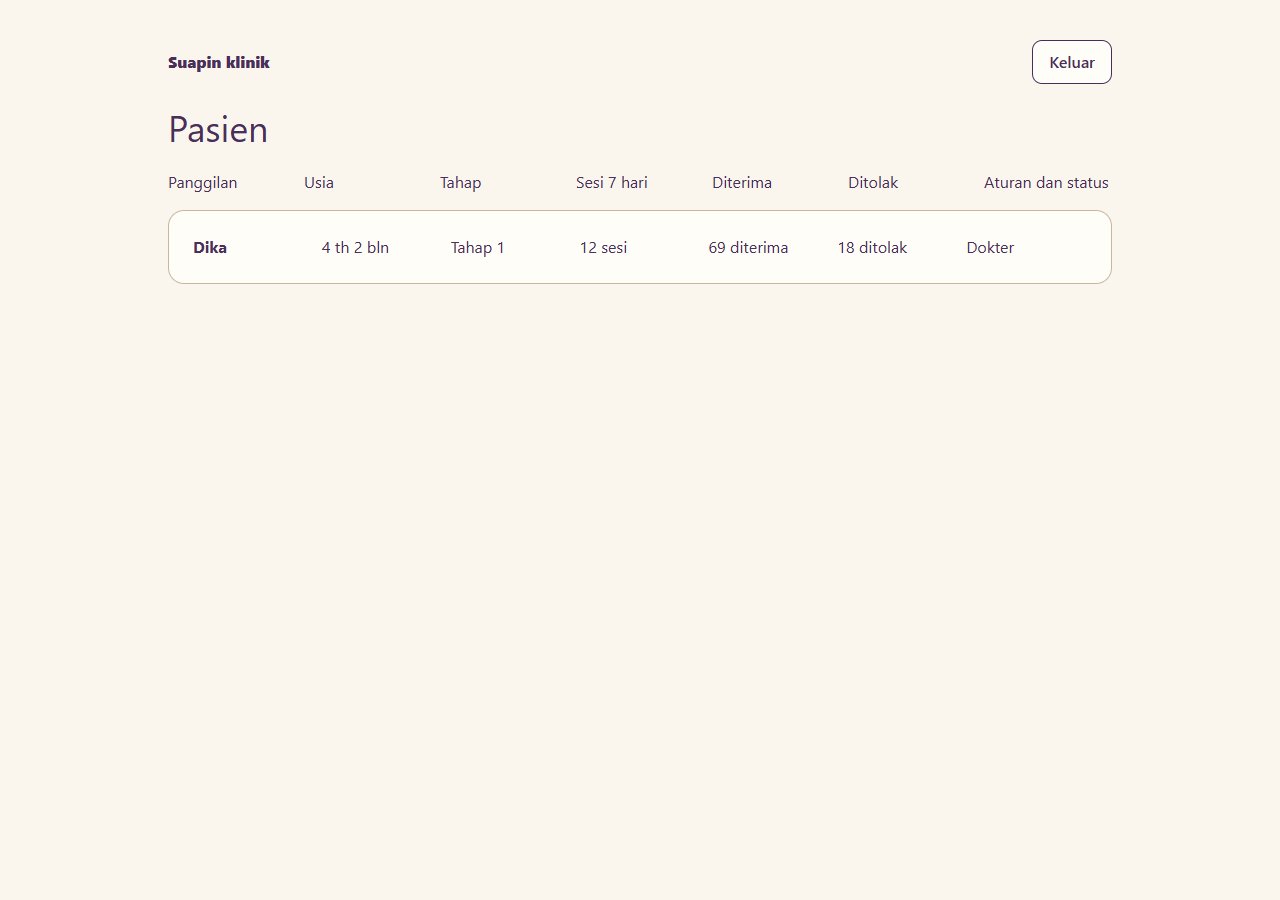
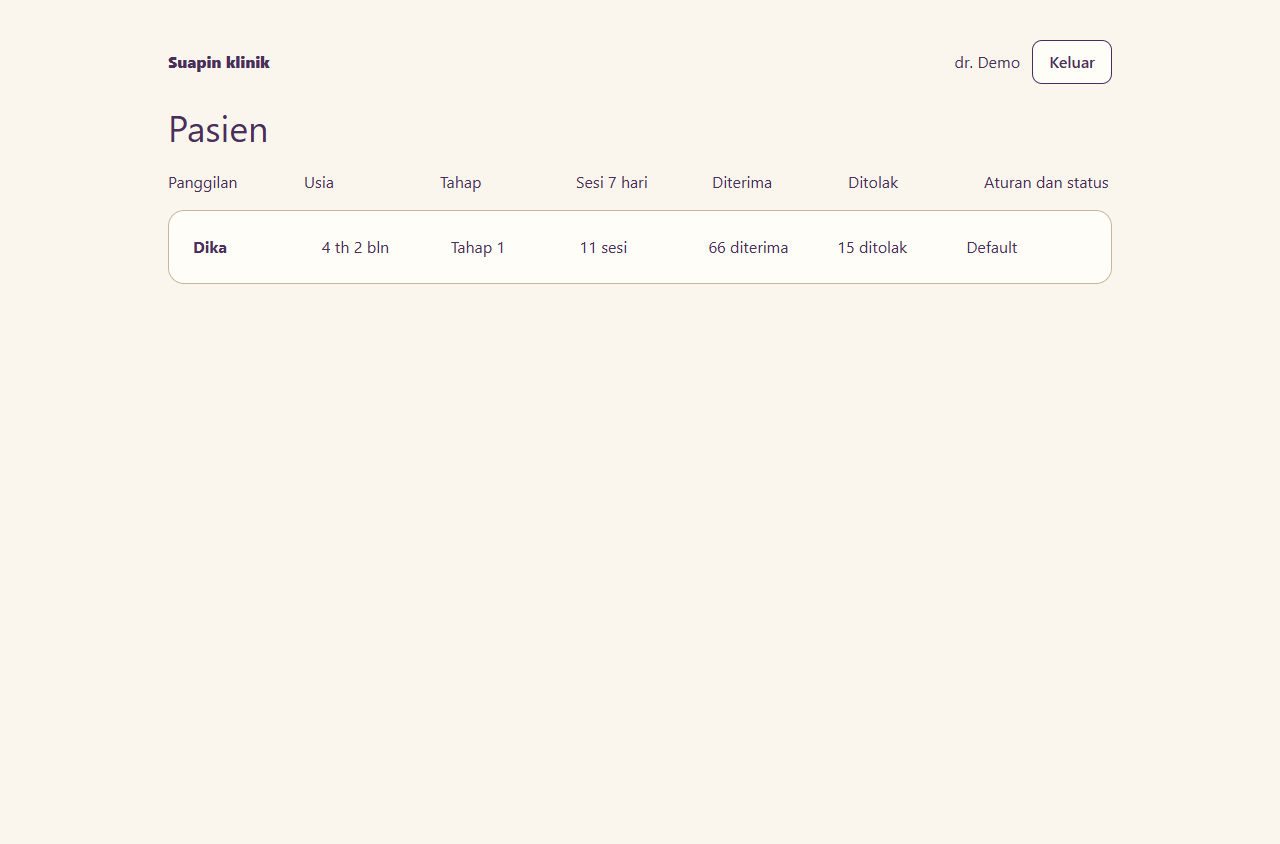
C: tampilkan nama dokter dan siapkan verifikasi API

diff --git a/uji/server/alur.test.ts b/uji/server/alur.test.ts
@@ -56,7 +56,9 @@ it("bagikan, klaim, baca resep dari cache, konfirmasi, lalu keluarga mendapat at
   expect(anonim.child).toEqual({ panggilan: "Dika", usia_bulan: 50 })
   expect(anonim).not.toHaveProperty("pasien_saya")
   expect((await dokter("/api/clinic/claim/" + share.token, "POST")).status).toBe(200)
-  expect(await (await dokter("/api/clinic/patients")).json()).toMatchObject({ pasien: [{ id: DIKA }] })
+  expect(await (await dokter("/api/clinic/patients")).json()).toMatchObject({
+    dokter_nama: "dr. Demo", pasien: [{ id: DIKA }],
+  })
   const teks = contohResep[0]!.teks
   const mock: Llm = async (_nama, skema) => skema.parse({ ...contohResep[0]!.hasil, max_minutes: 60 })
   const invalid = await (await uji.sebagai(uji.dokter, mock)("/api/rules/parse", "POST", { teks: teks + " Uji." })).json()
@@ -64,6 +66,12 @@ it("bagikan, klaim, baca resep dari cache, konfirmasi, lalu keluarga mendapat at
   expect(invalid.kolom_bermasalah[0].kolom).toBe("max_minutes")
   const parsed = await (await dokter("/api/rules/parse", "POST", { teks })).json()
   expect(parsed).toMatchObject({ sumber: "cache", aturan: { max_minutes: 20 } })
+  const llmValid: Llm = async (_nama, skema, _instruksi, input) => {
+    expect(input).toBe("Untuk anak: " + teks)
+    return skema.parse(contohResep[0]!.hasil)
+  }
+  const resepValid = await uji.sebagai(uji.dokter, llmValid)("/api/rules/parse", "POST", { teks: "Untuk Dika: " + teks })
+  expect(await resepValid.json()).toMatchObject({ sumber: "ai", aturan: parsed.aturan, kolom_bermasalah: [] })
   expect((await dokter("/api/rules/confirm", "POST", { child_id: DIKA, aturan: parsed.aturan, source_text: teks })).status).toBe(200)
   expect(await (await keluarga("/api/children/" + DIKA + "/rules")).json()).toMatchObject({
     source: "dokter", aturan: { max_minutes: 20 },
@@ -71,7 +79,9 @@ it("bagikan, klaim, baca resep dari cache, konfirmasi, lalu keluarga mendapat at
   expect(await (await keluarga("/api/saya")).json()).toMatchObject({ child: { plan: "klinik" } })
   const detail = await dokter("/api/clinic/patients/" + DIKA)
   expect(detail.status).toBe(200)
-  expect(await detail.json()).toMatchObject({ riwayat_aturan: [{ source: "dokter" }, { source: "default" }] })
+  expect(await detail.json()).toMatchObject({
+    dokter_nama: "dr. Demo", riwayat_aturan: [{ source: "dokter" }, { source: "default" }],
+  })
   expect(await (await dokter("/api/summaries/" + DIKA, "POST")).json()).toMatchObject({ sumber: "template" })
 })
 

diff --git a/src/halaman/klinik/pasien.tsx b/src/halaman/klinik/pasien.tsx
@@ -4,6 +4,7 @@ import { FormResep } from "../../komponen/klinik/form-resep"
 import { TabelSesi } from "../../komponen/klinik/tabel-sesi"
 import { GalatApi, panggil, usePanggil } from "../../lib/panggil"
 import { pesan, usia } from "./format"
+import { TataLetakKlinik } from "./tata-letak"
 
 export function Pasien() {
   const { id = "" } = useParams()
@@ -16,8 +17,10 @@ function DetailPasien({ id }: { id: string }) {
   const [galatAksi, setGalatAksi] = useState("")
   const [sukses, setSukses] = useState("")
   if (galat instanceof GalatApi && galat.status === 401) return <Navigate to="/klinik/masuk" replace />
-  if (!data) return memuat ? <p role="status">Memuat pasien…</p> :
-    <p role="alert">{galat?.message} <button type="button" onClick={ulang}>Coba lagi</button></p>
+  if (!data) return <TataLetakKlinik>
+    {memuat ? <p role="status">Memuat pasien…</p> :
+      <p role="alert">{galat?.message} <button type="button" onClick={ulang}>Coba lagi</button></p>}
+  </TataLetakKlinik>
 
   const aktif = data.aturan_aktif.aturan
   async function jalankan(jenis: NonNullable<typeof aksi>) {
@@ -37,7 +40,7 @@ function DetailPasien({ id }: { id: string }) {
     } catch (error) { setGalatAksi(pesan(error)) }
     finally { setAksi(null) }
   }
-  return <>
+  return <TataLetakKlinik dokter={data.dokter_nama}>
     <Link to="/klinik/pasien">Kembali ke pasien</Link>
     <div className="suapin-baris">
       <div><h1>{data.child.panggilan}</h1><p>{usia(data.child.usia_bulan)} · Tahap {data.child.stage}</p></div>
@@ -68,5 +71,5 @@ function DetailPasien({ id }: { id: string }) {
       </details>)}
     </section>
     <p><small>Yang diukur adalah perilaku menerima suapan. Porsi berasal dari catatan pengasuh.</small></p>
-  </>
+  </TataLetakKlinik>
 }

diff --git a/server/rute/klinik.ts b/server/rute/klinik.ts
@@ -52,7 +52,8 @@ export function ruteKlinik(daftar: Daftar, db: Db, env: Env) {
     return { child_id: anak.id }
   })
   daftar("pasienDaftar", async (c) => {
-    const clinicId = c.var.dokter!.clinic_id
+    const dokter = c.var.dokter!
+    const clinicId = dokter.clinic_id
     const [pasien, statistik] = await Promise.all([
       db.select().from(children).where(eq(children.clinic_id, clinicId)).orderBy(children.panggilan).all(),
       db.select({ id: sessions.child_id, n: sql<number>`count(*)`.mapWith(Number),
@@ -63,7 +64,7 @@ export function ruteKlinik(daftar: Daftar, db: Db, env: Env) {
         .groupBy(sessions.child_id).all(),
     ])
     const perAnak = new Map(statistik.map((row) => [row.id, row]))
-    return { pasien: await Promise.all(pasien.map(async (anak) => {
+    return { dokter_nama: dokter.nama, pasien: await Promise.all(pasien.map(async (anak) => {
       const [aktif, terakhir] = await Promise.all([
         bacaAturan(db, anak.id), sesiUntukTahap(db, anak.id, anak.stage),
       ])
@@ -89,7 +90,7 @@ export function ruteKlinik(daftar: Daftar, db: Db, env: Env) {
           eq(bites.hasil, "ngemut"), eq(bites.dikoreksi, true))).get(),
     ])
     const hasil = cekNaikTahap(terakhir, aturan_aktif.aturan)
-    return { child: { ...anak, usia_bulan: usiaBulan(anak.tanggal_lahir) }, aturan_aktif, riwayat_aturan,
+    return { dokter_nama: c.var.dokter!.nama, child: { ...anak, usia_bulan: usiaBulan(anak.tanggal_lahir) }, aturan_aktif, riwayat_aturan,
       sesi: sesi.map(tampilSesi), paparan, ngemut_dikonfirmasi: ngemut?.n ?? 0,
       siap_naik_tahap: hasil.siapNaik, saran_turun_tahap: hasil.saranTurun,
       ringkasan_dokter: ringkasan?.dokter ?? null }

diff --git a/uji/server/asap.ts b/uji/server/asap.ts
@@ -1,0 +1,33 @@
+import { API } from "../../bersama/kontrak/api"
+
+async function ujiGet() {
+  const tujuan = process.argv[2]
+  if (!tujuan) throw new Error("Gunakan: npx tsx uji/server/asap.ts <URL>")
+  const asal = new URL(tujuan)
+  if (asal.protocol !== "http:" && asal.protocol !== "https:") {
+    throw new Error("URL harus memakai HTTP atau HTTPS")
+  }
+
+  for (const endpoint of Object.values(API)) {
+    if (endpoint.metode !== "GET") continue
+    const path = endpoint.path.replace(/:\w+/g, "asap")
+    const status = endpoint.akses === "publik" ? 200 : endpoint.akses === "token" ? 404 : 401
+    const mulai = performance.now()
+    const respons = await fetch(new URL(path, asal), {
+      redirect: "error", signal: AbortSignal.timeout(10_000),
+    })
+    const durasi = Math.round(performance.now() - mulai)
+    if (respons.status !== status) {
+      throw new Error(path + " memberi HTTP " + respons.status + ", diharapkan " + status)
+    }
+    if (endpoint === API.sehat && !API.sehat.res.parse(await respons.json()).db) {
+      throw new Error("Pemeriksaan database gagal")
+    }
+    console.log("GET", path, status, durasi + " ms")
+  }
+}
+
+void ujiGet().catch((error: unknown) => {
+  console.error(error instanceof Error ? error.message : String(error))
+  process.exitCode = 1
+})

diff --git a/src/halaman/klinik/tata-letak.tsx b/src/halaman/klinik/tata-letak.tsx
@@ -1,11 +1,10 @@
-import { useState } from "react"
-import { Link, Outlet, useNavigate } from "react-router"
+import { useState, type ReactNode } from "react"
+import { Link, useNavigate } from "react-router"
 import { panggil } from "../../lib/panggil"
 import { pesan } from "./format"
 import "./klinik.css"
 
-
-export function TataLetakKlinik() {
+export function TataLetakKlinik({ dokter, children }: { dokter?: string; children: ReactNode }) {
   const navigate = useNavigate()
   const [sibuk, setSibuk] = useState(false)
   const [galat, setGalat] = useState("")
@@ -20,9 +19,12 @@ export function TataLetakKlinik() {
   return <main className="suapin-klinik">
     <header className="suapin-baris">
       <Link to="/klinik/pasien" className="suapin-merek">Suapin klinik</Link>
-      <button type="button" disabled={sibuk} onClick={() => void keluar()}>Keluar</button>
+      <div className="suapin-aksi">
+        {dokter && <span>{dokter}</span>}
+        <button type="button" disabled={sibuk} onClick={() => void keluar()}>Keluar</button>
+      </div>
     </header>
     {galat && <p role="alert">{galat}</p>}
-    <Outlet />
+    {children}
   </main>
 }

diff --git a/src/halaman/klinik/daftar-pasien.tsx b/src/halaman/klinik/daftar-pasien.tsx
@@ -1,6 +1,7 @@
 import { Link, Navigate } from "react-router"
 import { GalatApi, usePanggil } from "../../lib/panggil"
 import { usia } from "./format"
+import { TataLetakKlinik } from "./tata-letak"
 
 export function DaftarPasien() {
   const { data, galat, memuat, ulang } = usePanggil("pasienDaftar")
@@ -8,7 +9,7 @@ export function DaftarPasien() {
   const pasien = [...(data?.pasien ?? [])].sort((a, b) =>
     Number(b.siap_naik_tahap || b.saran_turun_tahap) - Number(a.siap_naik_tahap || a.saran_turun_tahap) ||
     a.panggilan.localeCompare(b.panggilan, "id"))
-  return <>
+  return <TataLetakKlinik dokter={data?.dokter_nama}>
     <h1>Pasien</h1>
     {memuat && <p role="status">Memuat daftar pasien…</p>}
     {galat && <p role="alert">{galat.message} <button type="button" onClick={ulang}>Coba lagi</button></p>}
@@ -26,5 +27,5 @@ export function DaftarPasien() {
         </span>
       </Link></li>)}
     </ul>}
-  </>
+  </TataLetakKlinik>
 }

diff --git a/server/akses.ts b/server/akses.ts
@@ -9,7 +9,7 @@ import type { API } from "../bersama/kontrak/api"
 
 export type SesiEnv = { Variables: {
   childId?: string
-  dokter?: { id: string; clinic_id: string }
+  dokter?: { id: string; clinic_id: string; nama: string }
 } }
 
 type C = Context<SesiEnv>
@@ -28,7 +28,7 @@ export function hapusCookie(c: C, env: Env, peran: Peran) {
 export async function bacaDokter(c: C, db: Db, env: Env) {
   const id = await getSignedCookie(c, env.SESI_RAHASIA, "tm_dokter")
   if (!id) return undefined
-  return db.select({ id: doctors.id, clinic_id: doctors.clinic_id }).from(doctors)
+  return db.select({ id: doctors.id, clinic_id: doctors.clinic_id, nama: doctors.nama }).from(doctors)
     .where(eq(doctors.id, id)).get()
 }
 

diff --git a/src/halaman/klinik/rute.tsx b/src/halaman/klinik/rute.tsx
@@ -3,11 +3,10 @@ import { LaporanBagikan } from "../r/laporan"
 import { DaftarPasien } from "./daftar-pasien"
 import { MasukKlinik } from "./masuk"
 import { Pasien } from "./pasien"
-import { TataLetakKlinik } from "./tata-letak"
 
 export const rutKlinik: RouteObject[] = [
   { path: "/klinik/masuk", element: <MasukKlinik /> },
-  { path: "/klinik", element: <TataLetakKlinik />, children: [
+  { path: "/klinik", children: [
     { index: true, element: <Navigate to="/klinik/pasien" replace /> },
     { path: "pasien", element: <DaftarPasien /> },
     { path: "pasien/:id", element: <Pasien /> },
